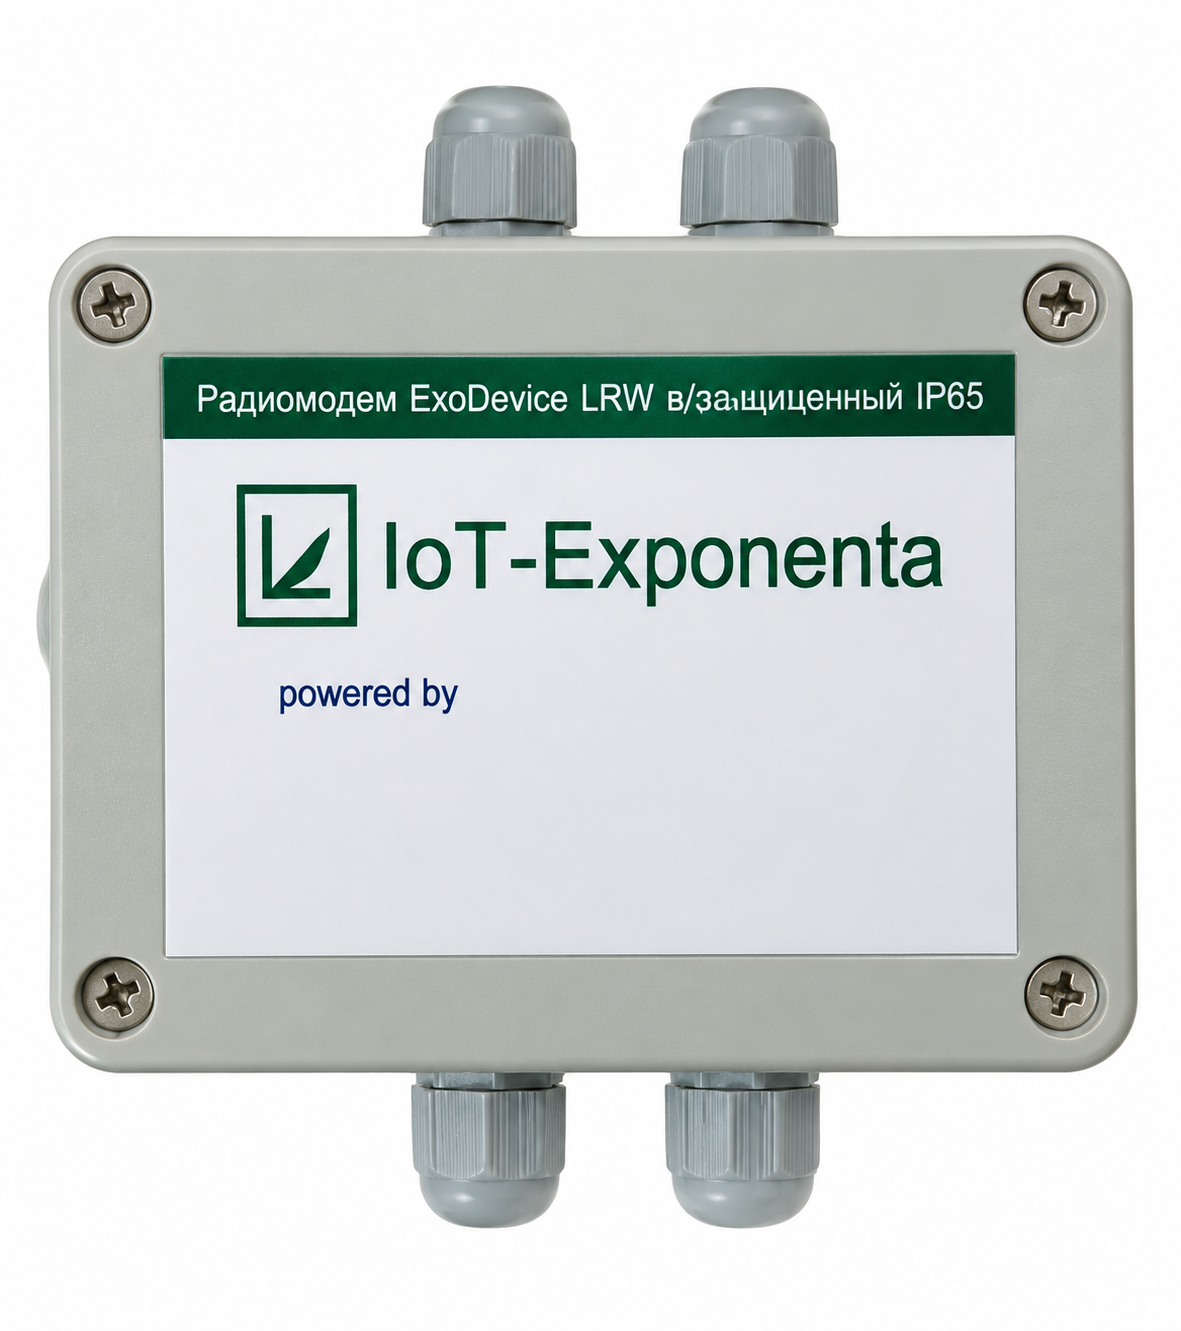
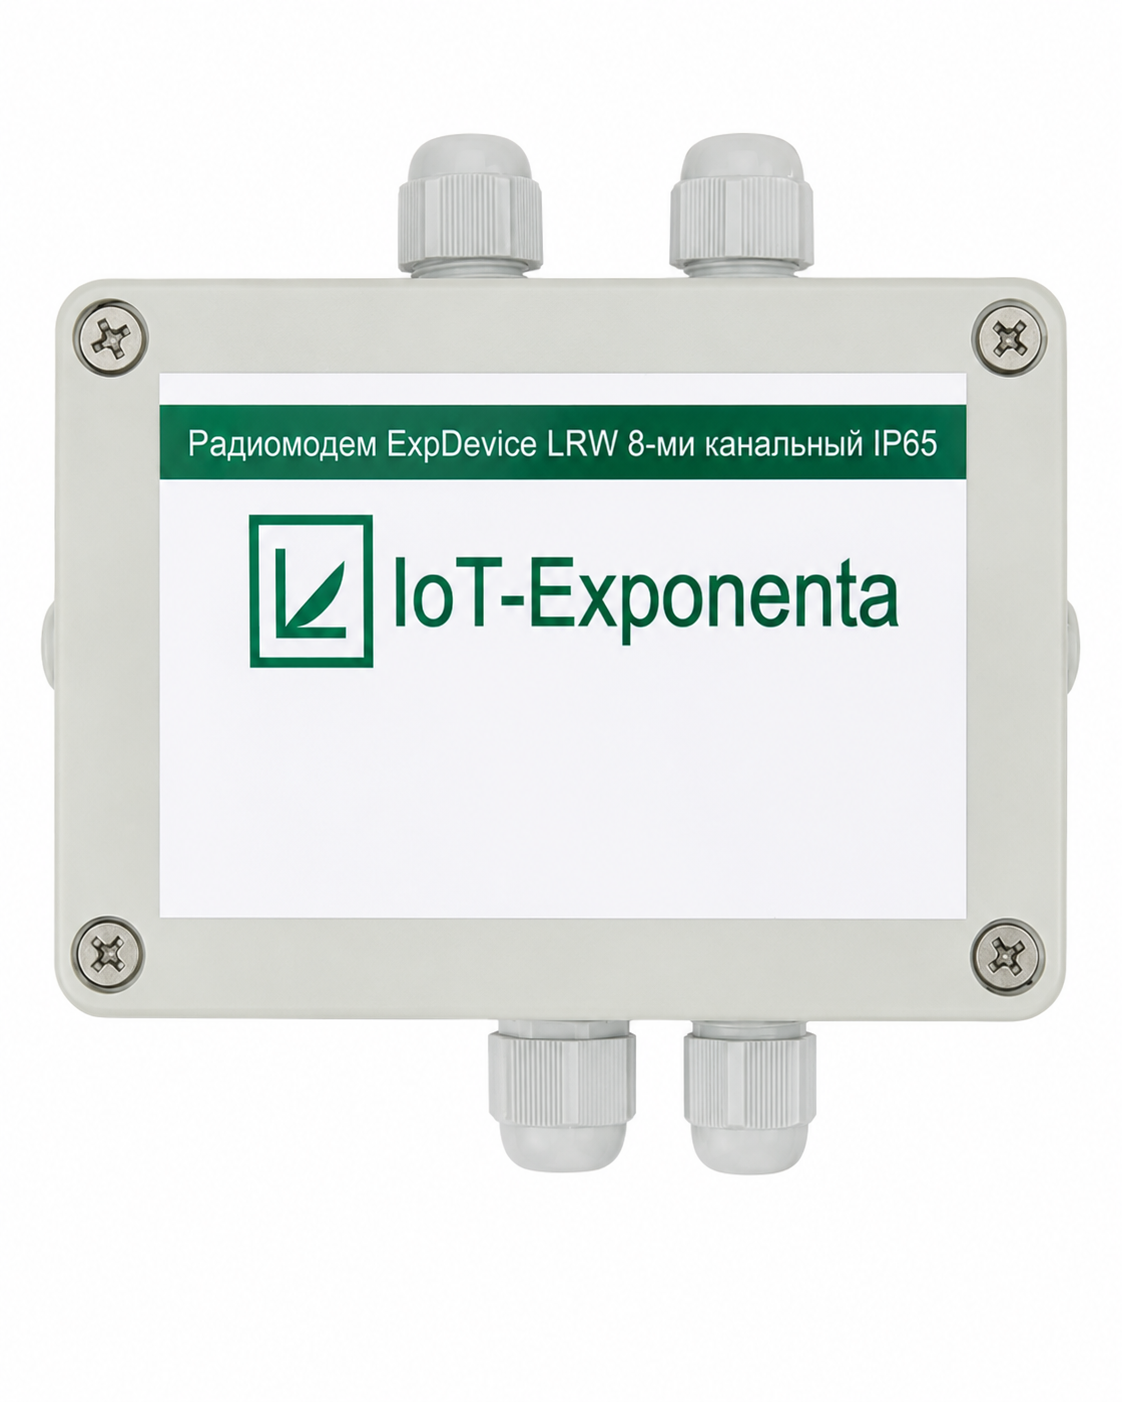
asdasd

diff --git a/src/pages/Services.tsx b/src/pages/Services.tsx
@@ -3,10 +3,8 @@ import {
   Wrench,
   Stethoscope,
   Settings,
-  Flame,
   Wifi,
   Thermometer,
-  Sparkles,
   ClipboardList,
   MoreHorizontal,
   ArrowRight,
@@ -46,12 +44,6 @@ const services = [
     image: "",
   },
   {
-    icon: Flame,
-    title: "Монтаж АТП и теплопунктов",
-    desc: "Проектирование и монтаж автоматизированных тепловых пунктов любой сложности.",
-    image: "",
-  },
-  {
     icon: Wifi,
     title: "Диспетчеризация и удаленный контроль",
     desc: "Онлайн-мониторинг и управление системами учета в реальном времени.",
@@ -62,18 +54,6 @@ const services = [
     title: "Тепловизионные обследования",
     desc: "Выявление утечек тепла, оценка энергоэффективности зданий и тепловых сетей с помощью тепловизоров.",
     image: "images/service-thermal.jpg",
-  },
-  {
-    icon: Sparkles,
-    title: "Промывка теплообменников",
-    desc: "Очистка и восстановление работоспособности теплообменного оборудования.",
-    image: "",
-  },
-  {
-    icon: ClipboardList,
-    title: "Проектирование",
-    desc: "Разработка проектной документации для систем учета и теплопотребления.",
-    image: "",
   },
   {
     icon: MoreHorizontal,
@@ -156,14 +136,11 @@ const IconCard = ({ service, className = "", onClick }: { service: any, classNam
 export default function Services() {
   const [consultOpen, setConsultOpen] = useState(false);
 
-  const topImageServices = [services[0], services[1], services[4]]; // Монтаж, Поверка, Диспетчеризация
+  const topImageServices = [services[0], services[1], services[3]]; // Монтаж, Поверка, Диспетчеризация
   const bottomIconServices = [
     services[2], // ТО
-    services[3], // Монтаж АТП
-    services[6], // Промывка
-    services[7], // Проектирование
-    services[5], // Тепловизионные обследования
-    services[8], // Доп. услуги
+    services[4], // Тепловизионные обследования
+    services[5], // Доп. услуги
   ];
 
   return (

diff --git a/src/pages/ProductDetail.tsx b/src/pages/ProductDetail.tsx
@@ -93,13 +93,17 @@ export default function ProductDetail() {
               {/* Diameter selection */}
               {variants && variants.length > 0 && (
                 <div className="mb-6 bg-[#F8FBF9] p-4 rounded-xl border border-[#D8E8DE]">
-                  <label className="text-sm font-semibold text-[#1B4332] block mb-2">Выберите диаметр:</label>
+                  <label className="text-sm font-semibold text-[#1B4332] block mb-2">
+                    {variants[0].diameter?.includes("канал") ? "Выберите количество каналов:" : "Выберите диаметр:"}
+                  </label>
                   <select
                     value={selectedDiameter}
                     onChange={(e) => setSelectedDiameter(e.target.value)}
                     className="w-full max-w-xs border border-[#D8E8DE] rounded-lg px-4 py-2.5 focus:outline-none focus:border-[#52B788] bg-white text-sm text-[#1B4332]"
                   >
-                    <option value="">Выберите диаметр</option>
+                    <option value="">
+                      {variants[0].diameter?.includes("канал") ? "Выберите количество каналов" : "Выберите диаметр"}
+                    </option>
                     {variants.map((v) => (
                       <option key={v.diameter} value={v.diameter}>
                         {v.diameter}
@@ -135,8 +139,13 @@ export default function ProductDetail() {
                 <div className="flex flex-col sm:flex-row gap-3">
                   <button
                     onClick={() => {
+                      const isChannel = variants && variants.some(v => v.diameter?.includes("канал"));
                       if (variants && variants.length > 0 && !selectedDiameter) {
-                        alert("Пожалуйста, выберите диаметр прибора перед добавлением в корзину!");
+                        alert(
+                          isChannel
+                            ? "Пожалуйста, выберите количество каналов перед добавлением в корзину!"
+                            : "Пожалуйста, выберите диаметр прибора перед добавлением в корзину!"
+                        );
                         return;
                       }
                       addToCart(product, selectedDiameter);

diff --git a/src/pages/Catalog.tsx b/src/pages/Catalog.tsx
@@ -42,7 +42,7 @@ const protocols = [
 
 export default function Catalog() {
   const [searchQuery, setSearchQuery] = useState("");
-  const [sortBy, setSortBy] = useState("name");
+  const [sortBy, setSortBy] = useState("default");
   const [selectedCategories, setSelectedCategories] = useState<string[]>([]);
   const [selectedManufacturers, setSelectedManufacturers] = useState<string[]>([]);
   const [selectedProtocols, setSelectedProtocols] = useState<string[]>([]);
@@ -76,6 +76,25 @@ export default function Catalog() {
     return products.filter(p => p.manufacturer === mId).length;
   };
 
+  const getProductWeight = (p: any) => {
+    const nameLower = p.name.toLowerCase();
+    
+    // 1. Kazmeter counters and modems (highest priority)
+    const isKazmeter = nameLower.includes("kazmeter") || p.manufacturer === "kazmeter";
+    if (isKazmeter) {
+      return 1;
+    }
+    
+    // 3. Sensors (lowest priority)
+    const isSensor = nameLower.includes("датчик") || p.category === "sensor" || nameLower.includes("sensor");
+    if (isSensor) {
+      return 3;
+    }
+    
+    // 2. Others (middle priority)
+    return 2;
+  };
+
   const filteredProducts = products
     .filter((p) => {
       if (searchQuery && !p.name.toLowerCase().includes(searchQuery.toLowerCase()))
@@ -89,6 +108,12 @@ export default function Catalog() {
       return true;
     })
     .sort((a, b) => {
+      const weightA = getProductWeight(a);
+      const weightB = getProductWeight(b);
+      if (weightA !== weightB) {
+        return weightA - weightB;
+      }
+      
       if (sortBy === "name") return a.name.localeCompare(b.name);
       if (sortBy === "price") return (a.price || 0) - (b.price || 0);
       return 0;
@@ -227,6 +252,7 @@ export default function Catalog() {
                   onChange={(e) => setSortBy(e.target.value)}
                   className="appearance-none border border-[#D8E8DE] rounded-lg px-4 py-3 pr-10 bg-white focus:outline-none focus:border-[#52B788] text-sm"
                 >
+                  <option value="default">По умолчанию</option>
                   <option value="name">По названию</option>
                   <option value="price">По цене</option>
                 </select>

diff --git a/src/pages/Home.tsx b/src/pages/Home.tsx
@@ -102,7 +102,7 @@ export default function Home() {
                 <div className="flex items-center gap-3.5">
                   <Router size={32} className="text-[#374151] stroke-[1.5] flex-shrink-0" />
                   <span className="text-sm text-[#374151] font-semibold leading-tight">
-                    Встроенный<br />NB-IoT модем
+                    LRW, GSM модем
                   </span>
                 </div>
                 <div className="flex items-center gap-3.5">
@@ -181,7 +181,7 @@ export default function Home() {
 
                   <div className="absolute right-0 bottom-[-5px] text-left max-w-[155px]">
                     <h4 className="text-sm font-bold text-[#1B4332] mb-1">Без лишних проводов</h4>
-                    <p className="text-[11px] text-[#5C7A6B] leading-tight">Встроенный NB-IoT модем работает через сеть оператора</p>
+                    <p className="text-[11px] text-[#5C7A6B] leading-tight">LRW, GSM модем работает через сеть оператора</p>
                   </div>
                 </div>
               </div>
@@ -206,7 +206,7 @@ export default function Home() {
                   <div className="w-2 h-2 rounded-full bg-[#52B788] mt-2 flex-shrink-0" />
                   <div>
                     <h4 className="text-sm font-bold text-[#1B4332]">Без лишних проводов</h4>
-                    <p className="text-xs text-[#5C7A6B] mt-0.5">Встроенный NB-IoT модем работает через сеть оператора</p>
+                    <p className="text-xs text-[#5C7A6B] mt-0.5">LRW, GSM модем работает через сеть оператора</p>
                   </div>
                 </div>
               </div>

diff --git a/src/components/CartDrawer.tsx b/src/components/CartDrawer.tsx
@@ -69,7 +69,8 @@ export default function CartDrawer() {
 
     cart.forEach((item, index) => {
       text += `${index + 1}. *${item.name}*\n`;
-      text += `   📐 Диаметр: ${item.diameter}\n`;
+      const variantLabel = item.diameter.includes("канал") ? "Каналы" : "Диаметр";
+      text += `   📐 ${variantLabel}: ${item.diameter}\n`;
       text += `   🔢 Кол-во: ${item.count} шт.\n`;
       text += `   💵 Цена: ${item.price}\n\n`;
     });
@@ -183,7 +184,7 @@ export default function CartDrawer() {
                         {item.name}
                       </h4>
                       <p className="text-xs text-[#8BA89B] mb-1">
-                        Диаметр: <span className="text-[#1B4332] font-medium">{item.diameter}</span>
+                        {item.diameter.includes("канал") ? "Каналы" : "Диаметр"}: <span className="text-[#1B4332] font-medium">{item.diameter}</span>
                       </p>
                       <p className="text-xs text-[#8BA89B]">
                         Кол-во: <span className="text-[#1B4332] font-medium">{item.count} шт.</span>

diff --git a/src/pages/Contacts.tsx b/src/pages/Contacts.tsx
@@ -26,7 +26,7 @@ const offices = [
   {
     city: "Алматы",
     address: "просп. Назарбаева, 50, офис 412",
-    phones: ["+7 707 313 4050", "+7 705 705 5051"],
+    phones: ["+7 707 313 40 50", "+7 702 291 20 78"],
     email: "info@iot-exp.kz",
     hours: "Пн-Пт: 09:00 - 18:00",
     isMain: false,
@@ -102,14 +102,7 @@ export default function Contacts() {
                 Открыть Telegram
               </a>
             </div>
-            <div className="relative z-10 flex flex-col items-center bg-white p-6 rounded-2xl border border-white/10 shadow-lg shrink-0">
-              <img
-                src="images/telegram_qr.png"
-                alt="Telegram QR Code"
-                className="w-36 h-36 object-contain"
-              />
-              <span className="text-xs text-[#1B4332] font-semibold mt-3">@iot_exponenta_bot</span>
-            </div>
+
           </div>
         </div>
       </section>

diff --git a/src/components/Footer.tsx b/src/components/Footer.tsx
@@ -125,10 +125,10 @@ export default function Footer() {
                   <span className="text-white/40 text-xs block">Алматы:</span>
                   <div className="flex flex-col">
                     <a href="tel:+77073134050" className="text-white hover:text-[#52B788] transition-colors text-sm font-medium">
-                      +7 707 313 4050
+                      +7 707 313 40 50
                     </a>
-                    <a href="tel:+77057055051" className="text-white hover:text-[#52B788] transition-colors text-sm font-medium">
-                      +7 705 705 5051
+                    <a href="tel:+77022912078" className="text-white hover:text-[#52B788] transition-colors text-sm font-medium">
+                      +7 702 291 20 78
                     </a>
                   </div>
                 </div>

diff --git a/src/utils/whatsapp.ts b/src/utils/whatsapp.ts
@@ -22,13 +22,13 @@ export function submitToWhatsApp(e: any) {
 
   let phoneNo = '77711731722'; // default: Astana service department
   if (city === 'алматы') {
-    // Alternate between Nursultan (77073134050) and Alexandr (77057055051)
+    // Alternate between Nursultan (77073134050) and Alexandr (77022912078)
     const currentAlt = localStorage.getItem('wa_almaty_alt');
     if (currentAlt === 'alexandr') {
       phoneNo = '77073134050'; // Nursultan
       localStorage.setItem('wa_almaty_alt', 'nursultan');
     } else {
-      phoneNo = '77057055051'; // Alexandr
+      phoneNo = '77022912078'; // Alexandr
       localStorage.setItem('wa_almaty_alt', 'alexandr');
     }
   } else if (city === 'астана') {

diff --git a/src/pages/Solutions.tsx b/src/pages/Solutions.tsx
@@ -71,7 +71,7 @@ const solutions = [
   },
   {
     icon: Wifi,
-    title: "Диспетчеризация и Smart Metrix",
+    title: "Диспетчеризация Smart Metrix",
     description: "Внедрение облачной платформы Smart Metrix для удаленного мониторинга всех инженерных систем объекта.",
     image: "images/solution_smart_metrix.png",
     features: [

diff --git a/scripts/patch_products_v2.py b/scripts/patch_products_v2.py
@@ -1,0 +1,31 @@
+import json
+
+filepath = 'src/data/products.json'
+
+# Load products
+with open(filepath, 'r', encoding='utf-8') as f:
+    products = json.load(f)
+
+# Filter out Zenner and Exponenta
+original_len = len(products)
+products = [p for p in products if p['id'] not in ('zenner', 'iot_exponenta')]
+print(f"Removed {original_len - len(products)} products.")
+
+# Modify prod_1
+for p in products:
+    if p['id'] == 'prod_1':
+        p['name'] = "Радиомодем LRW 2,4,8 и 10 канальный ExpDevice (01_GSM)"
+        p['variants'] = [
+            { "diameter": "2-канальный", "price": "Запросить цену" },
+            { "diameter": "4-канальный", "price": "Запросить цену" },
+            { "diameter": "8-канальный", "price": "Запросить цену" },
+            { "diameter": "10-канальный", "price": "Запросить цену" }
+        ]
+        print("Successfully updated prod_1 details and variants.")
+        break
+
+# Write back
+with open(filepath, 'w', encoding='utf-8') as f:
+    json.dump(products, f, ensure_ascii=False, indent=2)
+
+print("Saved updated products.json")
